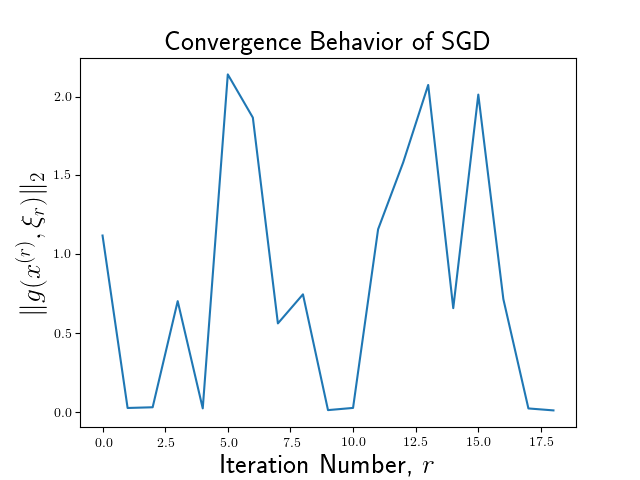
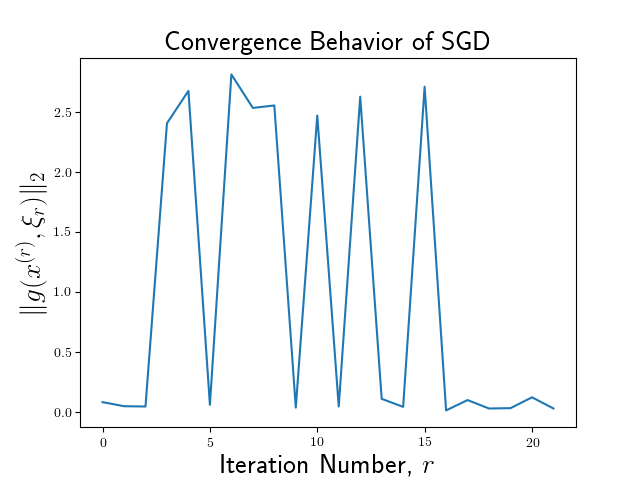
...

diff --git a/SVRG_experiments.py b/SVRG_experiments.py
@@ -254,7 +254,7 @@ def SVRG_testbed(X_train, y_train, X_test, y_test):
     w_svrg, grad_norms_svrg, _, _ = SVRG_logistic(X_train.to_numpy(), y_train.to_numpy(), freq)
     iters = np.arange(len(grad_norms_svrg))
     plt.figure(1)
-    plt.plot(iters, grad_norms_sgd[len(grad_norms_sgd)-len(grad_norms_svrg):len(grad_norms_sgd)])
+    plt.plot(iters, grad_norms_sgd[:len(grad_norms_svrg)])
     plt.xlabel('Iteration Number, $r$', text_format)
     plt.ylabel('$\\|g(x^{(r)},\\xi_r)\\|_2$', text_format)
     plt.title('Convergence Behavior of SGD', text_format)
